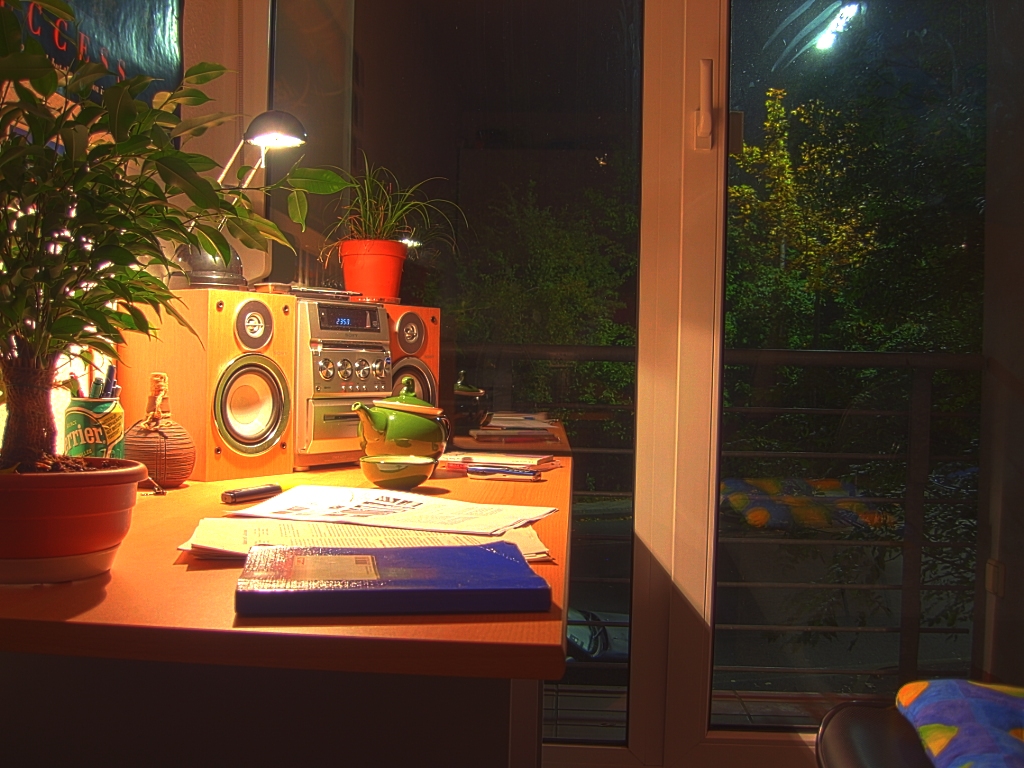
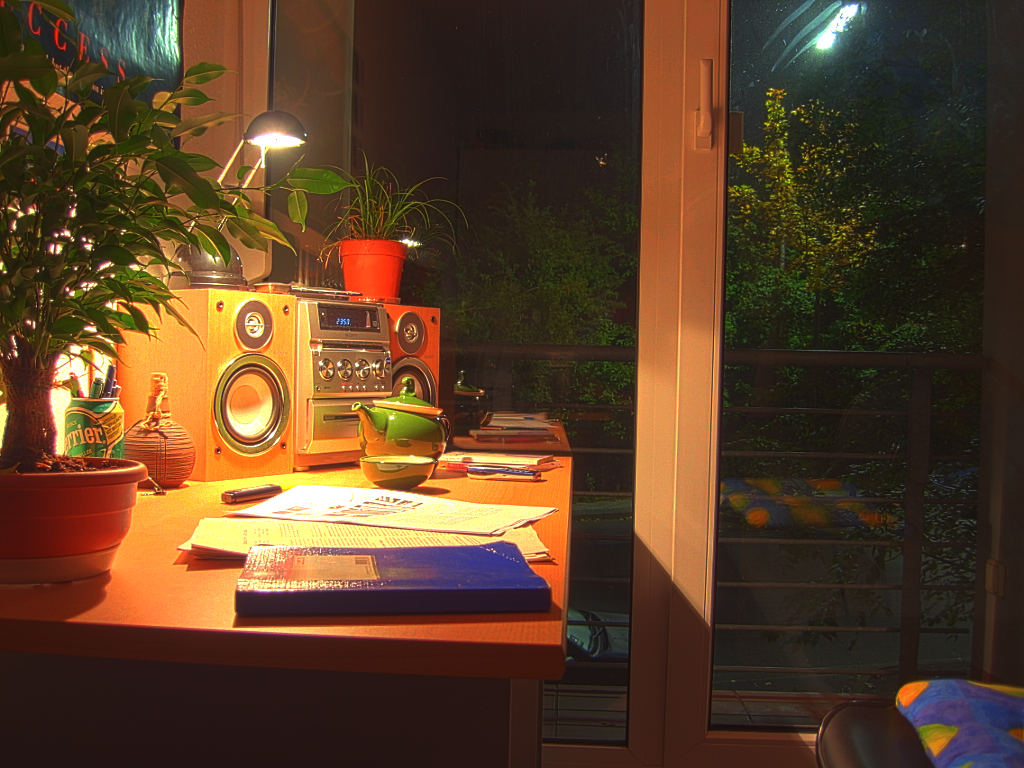
remove cv2

Changed region(s): [[0.1875, 0.6562, 0.5312, 0.7188], [0.2188, 0.5312, 0.2812, 0.5625], [0.4688, 0.5938, 0.5, 0.625]]

diff --git a/tone.py b/tone.py
@@ -225,7 +225,6 @@ def fastBilateralFiltering(energys, sigma_f = 2, sigma_g = 0.4, compressFactor =
 	# RGB
 	for c in range(3):
 		outputs[:, :, c] = Colors[:, :, c] * newI[:, :]
-		outputs[:, :, c] = I[:, :]
 	
 	outputs = np.clip(outputs, 0, 1)
 	outputs = outputs * 255

diff --git a/hdr.py b/hdr.py
@@ -1,7 +1,6 @@
 import numpy as np
 from numpy.linalg import lstsq
 from numpy.random import randint
-import cv2
 
 from PIL import Image
 
